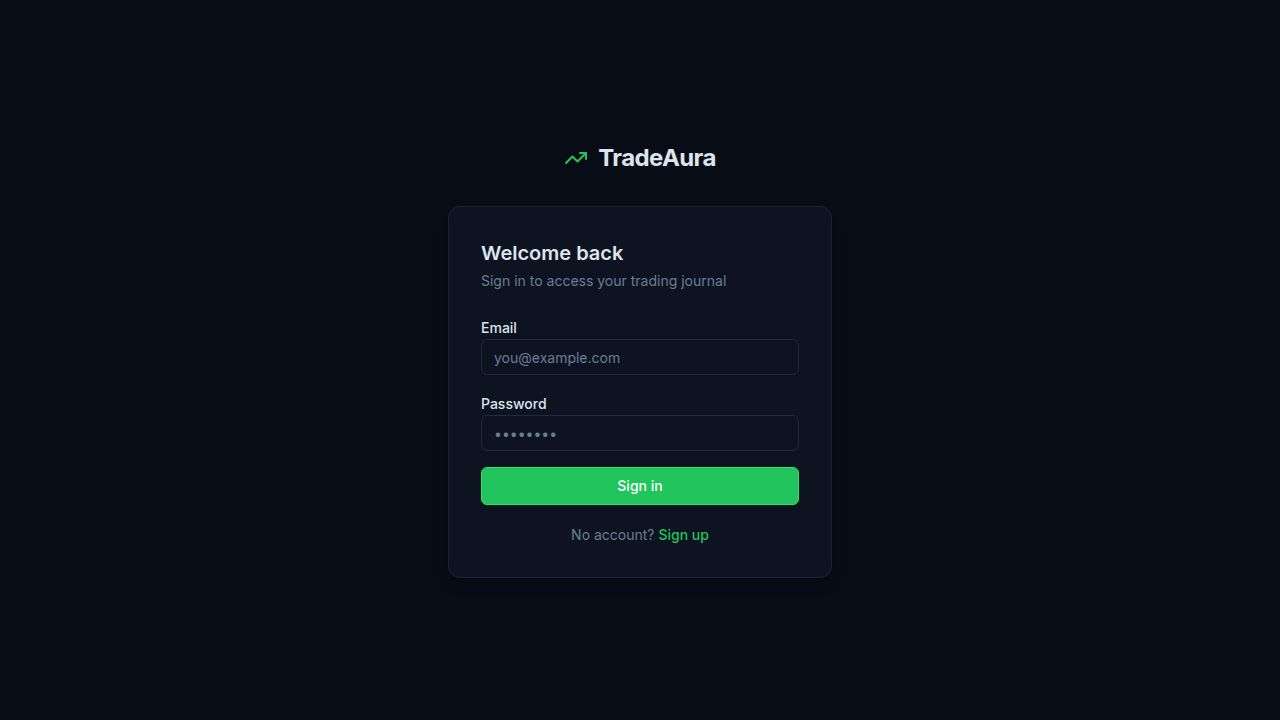
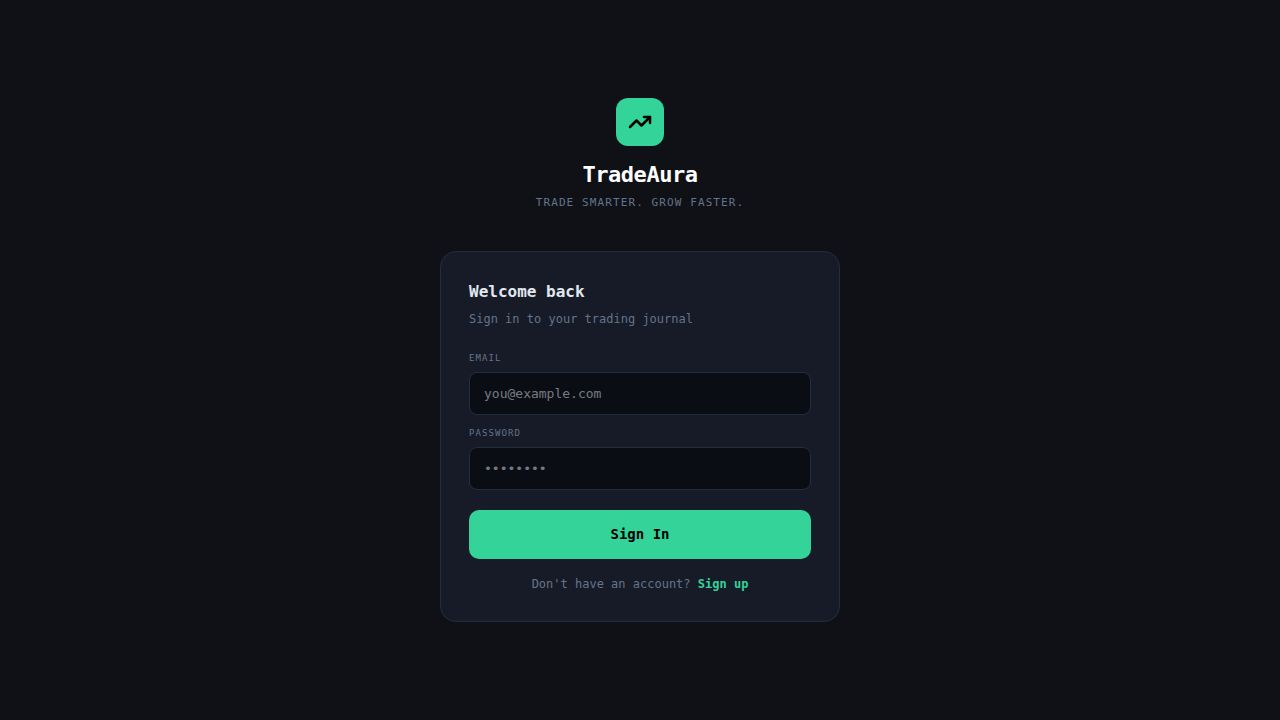
Add backend proxy for AI grading and integrate it into the trading journal
Create a new Express.js API route for AI grading that securely uses the Anthropic API key and update the frontend to call this new backend endpoint instead of making direct API calls.

Replit-Commit-Author: Agent
Replit-Commit-Session-Id: 6845a99d-7147-4842-804e-05b57a94cde0
Replit-Commit-Checkpoint-Type: full_checkpoint
Replit-Commit-Event-Id: 4161337a-c85e-48c5-95ac-abdb22f388d2
Replit-Commit-Screenshot-Url: https://storage.googleapis.com/screenshot-production-us-central1/898447d2-1dcd-4380-a59a-c1ae98a21d55/6845a99d-7147-4842-804e-05b57a94cde0/6JbFqYl
Replit-Helium-Checkpoint-Created: true

diff --git a/artifacts/api-server/src/routes/ai.ts b/artifacts/api-server/src/routes/ai.ts
@@ -1,0 +1,55 @@
+import { Router, type IRouter } from "express";
+
+const router: IRouter = Router();
+
+router.post("/ai/grade", async (req, res) => {
+  const { prompt, maxTokens = 600 } = req.body as { prompt: string; maxTokens?: number };
+
+  if (!prompt || typeof prompt !== "string") {
+    res.status(400).json({ error: "prompt is required" });
+    return;
+  }
+
+  const apiKey = process.env.ANTHROPIC_API_KEY;
+  if (!apiKey) {
+    res.status(500).json({ error: "AI not configured" });
+    return;
+  }
+
+  try {
+    const response = await fetch("https://api.anthropic.com/v1/messages", {
+      method: "POST",
+      headers: {
+        "Content-Type": "application/json",
+        "x-api-key": apiKey,
+        "anthropic-version": "2023-06-01",
+      },
+      body: JSON.stringify({
+        model: "claude-sonnet-4-5",
+        max_tokens: maxTokens,
+        messages: [{ role: "user", content: prompt }],
+      }),
+    });
+
+    if (!response.ok) {
+      const err = await response.text();
+      req.log.error({ status: response.status, err }, "Anthropic API error");
+      res.status(502).json({ error: "AI request failed" });
+      return;
+    }
+
+    const data = await response.json() as { content: { text?: string }[] };
+    const text = data.content.map((b) => b.text || "").join("");
+    const match = text.match(/\{[\s\S]*\}/);
+    if (!match) {
+      res.status(502).json({ error: "No JSON in AI response" });
+      return;
+    }
+    res.json(JSON.parse(match[0]));
+  } catch (err) {
+    req.log.error(err, "AI proxy error");
+    res.status(500).json({ error: "Internal error" });
+  }
+});
+
+export default router;

diff --git a/artifacts/tradeaura/src/App.tsx b/artifacts/tradeaura/src/App.tsx
@@ -42,15 +42,13 @@ function Tag({color,children}: {color:string,children:React.ReactNode}){ return 
 function Pill({active,color=C.blue,onClick,children}: {active:boolean,color?:string,onClick:()=>void,children:React.ReactNode}){ return <button onClick={onClick} style={{padding:"8px 14px",borderRadius:8,fontSize:11,fontWeight:600,cursor:"pointer",fontFamily:"inherit",background:active?color+"22":"transparent",color:active?color:C.muted,border:`1px solid ${active?color+"55":C.bord}`}}>{children}</button>; }
 
 async function callAI(prompt: string, maxTokens=600) {
-  const res = await fetch("https://api.anthropic.com/v1/messages", {
-    method:"POST", headers:{"Content-Type":"application/json"},
-    body: JSON.stringify({ model:"claude-sonnet-4-20250514", max_tokens:maxTokens, messages:[{role:"user",content:prompt}] })
+  const res = await fetch("/api/ai/grade", {
+    method:"POST",
+    headers:{"Content-Type":"application/json"},
+    body: JSON.stringify({ prompt, maxTokens })
   });
-  const data = await res.json();
-  const text = data.content.map((b: any)=>b.text||"").join("");
-  const match = text.match(/{[\s\S]*}/);
-  if (!match) throw new Error("No JSON");
-  return JSON.parse(match[0]);
+  if (!res.ok) throw new Error("AI request failed");
+  return res.json();
 }
 
 // ── AUTH SCREEN ───────────────────────────────────────────────────────────────

diff --git a/artifacts/api-server/src/routes/index.ts b/artifacts/api-server/src/routes/index.ts
@@ -2,11 +2,13 @@ import { Router, type IRouter } from "express";
 import healthRouter from "./health";
 import tradesRouter from "./trades";
 import instrumentsRouter from "./instruments";
+import aiRouter from "./ai";
 
 const router: IRouter = Router();
 
 router.use(healthRouter);
 router.use(tradesRouter);
 router.use(instrumentsRouter);
+router.use(aiRouter);
 
 export default router;